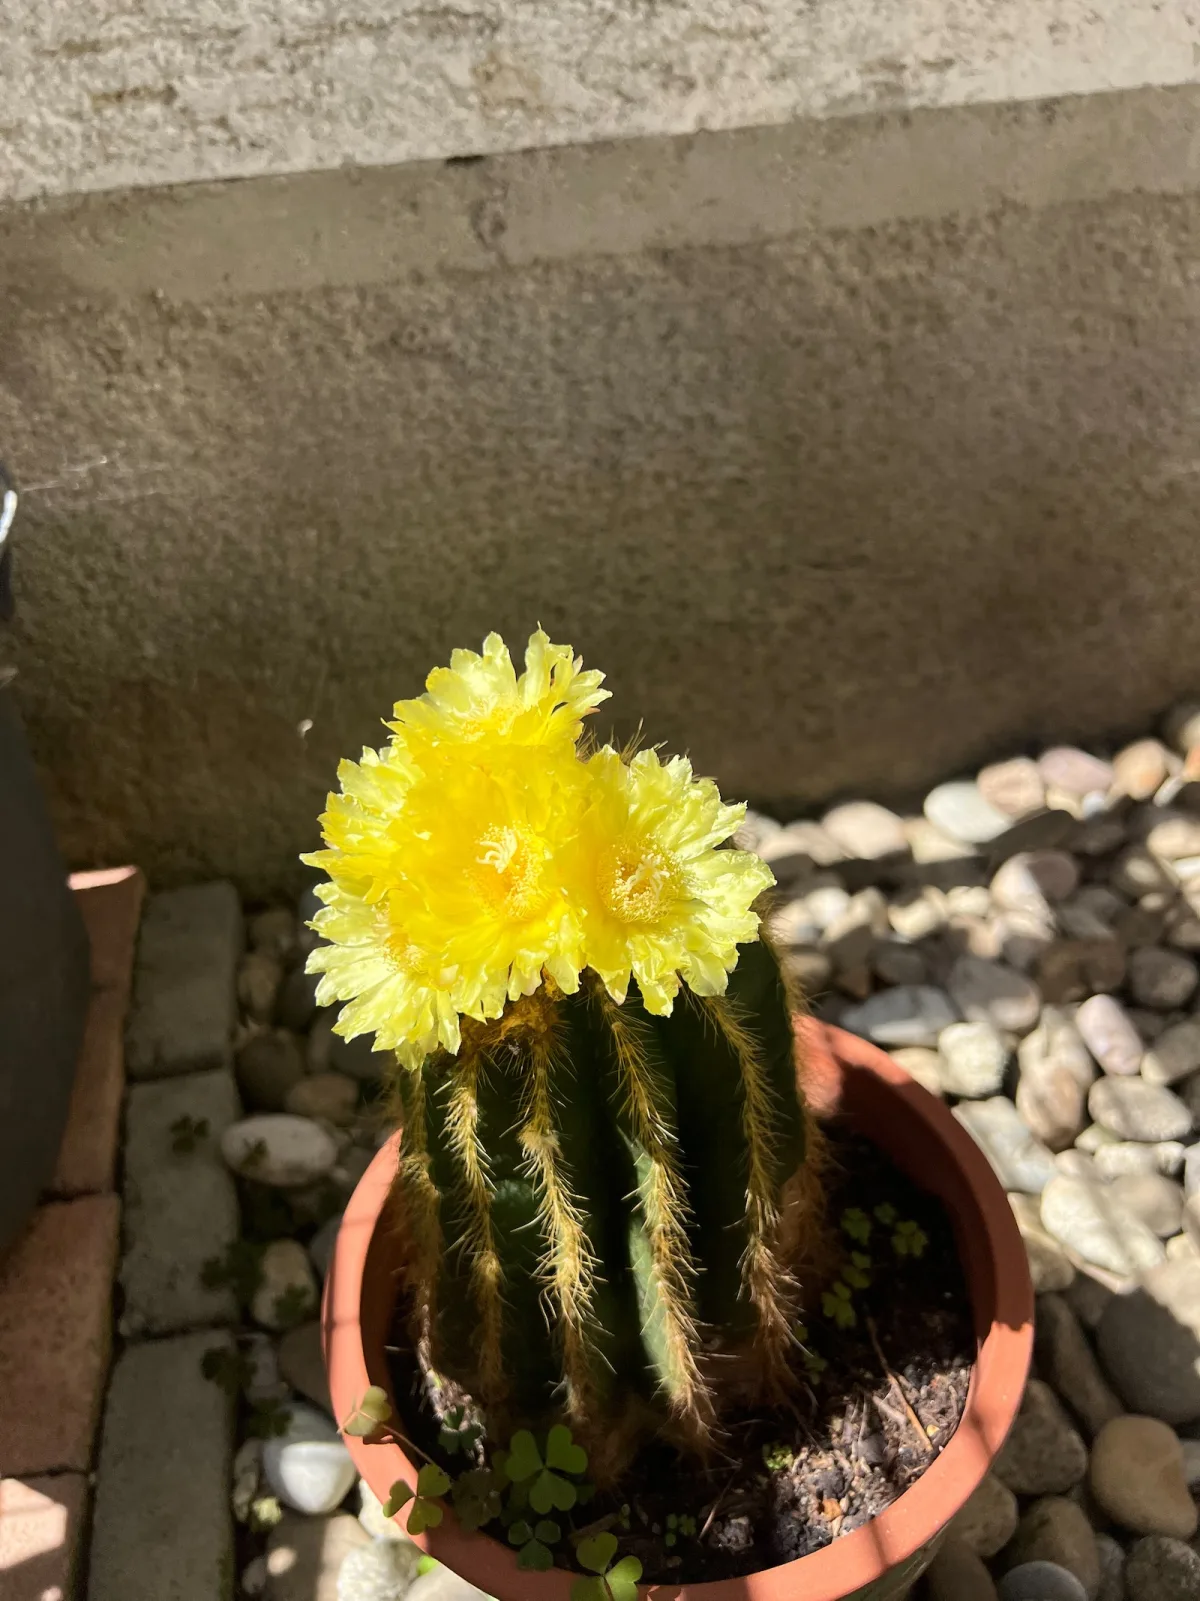
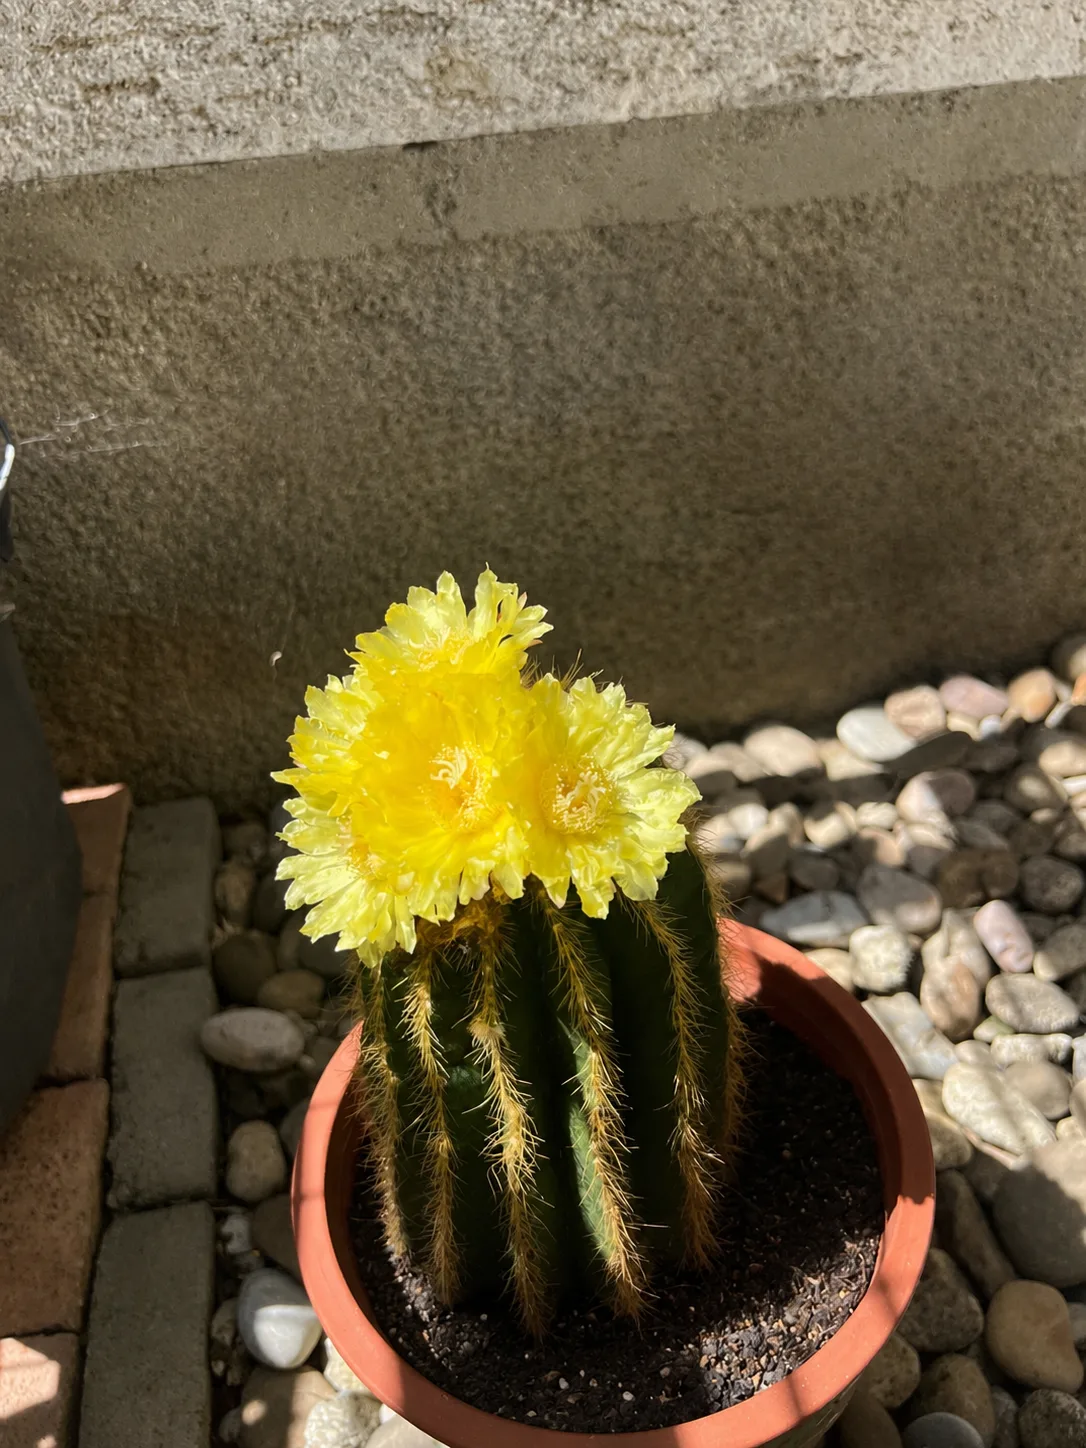
Use the new #32 bloom photo; pin only when a pan needs correcting
#32 parodia-magnifica: replaced the bloom photo with the new one. Kept the
existing filename, which is the documented way to swap a photo, so data.js
is untouched and it stays first in the set. The square crop is
bottom-aligned rather than centred: centring would have kept the flowers
but cut the pot off and spent 383px on the wall above.

Rubber band, second attempt. Widening the thresholds last time only made
the pinned<->sticky swap rarer, not absent, and the swap is not really the
cost - being pinned at all is, because pinned means a per-frame write.

The pin now requires an actual pan to correct. With offsetTop 0, which is
the usual case since the instant focus scroll means iOS never has to pan,
sticky already places the bar exactly right, natively, on the compositor.
Pinning there bought nothing and cost a rAF write every frame plus a mode
that could swap as the slot drifted. Not pinning removes both. Likewise
the rest branch now hands back to sticky as soon as the pan is gone
instead of waiting for the keyboard to close, which had kept the bar
pinned and chasing for as long as it was open.

The keyboard close is still covered: blur pins before the keyboard starts
moving, which is what the closing hold has always relied on.

Not verified, as asked.

Also: the 2.5 MB source PNG is gitignored rather than committed - the site
serves webp only - and two stray root-level jpegs are cleared.

diff --git a/index.html b/index.html
@@ -988,7 +988,10 @@
     // holding the fixed pin through the whole close is safe (no scroll to drift against).
     // offsetTop back to 0 with no keyboard means both the keyboard pan and any rubber-band
     // pan are fully unwound, so the bar's resting spot is exactly sticky's — hand it back.
-    if(off===0 && !keyboardUp()){ goSticky(); trackRaf=0; return; }
+    // No pan left to correct: sticky is right again, whether or not the keyboard is still up.
+    // Waiting for the keyboard too kept the bar pinned, and so chasing, for the whole time it
+    // was open.
+    if(off===0){ goSticky(); trackRaf=0; return; }
     // offsetTop has left its resting value => the viewport has STARTED panning: the keyboard
     // is being dragged away by iOS's native scroll-to-dismiss (or is closing). iOS switches
     // fixed to VISUAL-relative the instant a pan begins, so the flush position becomes a
@@ -1037,9 +1040,15 @@
       // ...but only once the flow slot is scrolled past. If the slot is still on screen the
       // bar's correct place IS its flow position, which sticky gives natively — pinning there
       // means chasing it per frame, which jitters.
-      // Note the dead zone: between PIN_AT and UNPIN_AT neither branch fires and whatever
-      // mode we are in simply persists, which is the whole point of having two thresholds.
-      if(!keyboardUp()) goSticky();
+      // Pin ONLY when there is a pan to correct. With offsetTop 0 — the usual case, since the
+      // instant focus scroll means iOS never has to pan — sticky already puts the bar exactly
+      // where it belongs, natively and on the compositor. Pinning there buys nothing and costs
+      // a per-frame write plus a mode that can swap as the slot drifts across the thresholds,
+      // and THAT is the slight rubber band felt when dragging around the bar's resting place.
+      // Widening the thresholds only made the swap rarer; not pinning removes it. The close is
+      // still covered, because blur pins before the keyboard starts moving.
+      // Between the thresholds neither branch fires and the current mode persists.
+      if(!keyboardUp() || panOffset() === 0) goSticky();
       else if(naturalTop() <= PIN_AT) pinFixed(panOffset());
       else if(naturalTop() > UNPIN_AT) goSticky();
       // a scroll-to-results requested mid-transition runs now, against the FINAL layout
@@ -1068,7 +1077,7 @@
       if(!closing && !keyboardUp() && panOffset() >= PAN_EPS){ pinFixed(0); closing=true; }
       // Scrolled back down past the flow slot with the keyboard up: re-pin. trackTop hands the
       // bar to sticky whenever the slot is visible, so this is the other half of that swap.
-      else if(!pinned && keyboardUp() && naturalTop()<=PIN_AT) pinFixed(panOffset());
+      else if(!pinned && keyboardUp() && panOffset() > 0 && naturalTop()<=PIN_AT) pinFixed(panOffset());
       // top-tracking + the unpin-at-offsetTop-0 are handled per-frame by trackTop (rAF).
       // Just keep the settle timer armed so onSettled fires when everything stops.
       arm();